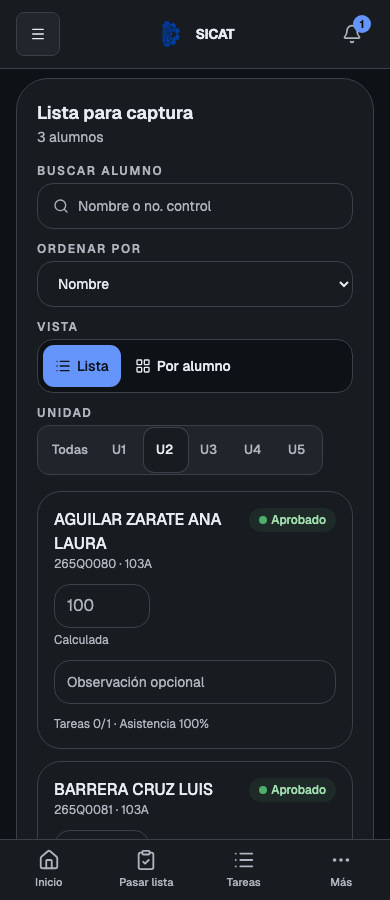
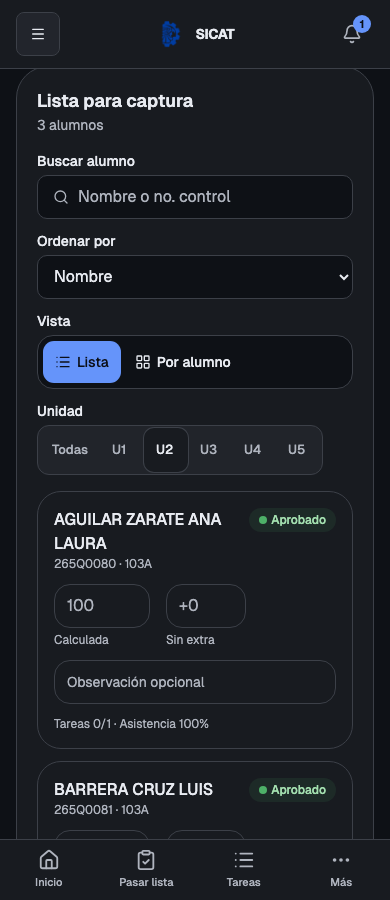
feat(calificaciones): puntos extra por alumno sin tocar los criterios
El docente captura puntos extra junto a la calificación de cada unidad.
La final es la base (manual o calculada) más los puntos, topada en 100;
la calculada, la manual y los criterios no cambian. El alumno ve
"Incluye +N extra" y el cierre de curso usa la final con los puntos.

Migración 20261020120000_calificacion_puntos_extra.

diff --git a/frontend/src/pages/Calificaciones.jsx b/frontend/src/pages/Calificaciones.jsx
@@ -62,12 +62,13 @@ function getRowKey(row) {
 function getServerDraft(row) {
   return {
     calificacionManual: row.calificacionManual == null ? '' : String(row.calificacionManual),
+    puntosExtra: row.puntosExtra == null ? '' : String(row.puntosExtra),
     observacion: row.observacionManual ?? '',
   }
 }
 
 function isSameDraft(a, b) {
-  return a.calificacionManual === b.calificacionManual && a.observacion === b.observacion
+  return a.calificacionManual === b.calificacionManual && a.puntosExtra === b.puntosExtra && a.observacion === b.observacion
 }
 
 // Mismo rango que valida el servidor; vacío significa "usar la calculada".
@@ -77,6 +78,19 @@ function validarCalificacion(value) {
   const number = Number(text)
   if (!Number.isFinite(number) || number < 1 || number > 100) return 'Debe estar entre 1 y 100'
   return null
+}
+
+// Puntos que se suman a la calificación sin tocar los criterios; vacío es 0.
+function validarPuntosExtra(value) {
+  const text = String(value ?? '').trim()
+  if (text === '') return null
+  const number = Number(text)
+  if (!Number.isFinite(number) || number < 0 || number > 100) return 'Debe estar entre 0 y 100'
+  return null
+}
+
+function borradorInvalido(draft) {
+  return Boolean(validarCalificacion(draft.calificacionManual) || validarPuntosExtra(draft.puntosExtra))
 }
 
 function plural(count, singular, pluralForm) {
@@ -169,8 +183,10 @@ function etiquetaCelda(row, conUnidad) {
 // vacía, la calculada.
 function valorEfectivo(row, draft) {
   const manual = draft.calificacionManual.trim()
-  if (manual === '') return row.calificacionCalculada ?? null
-  return validarCalificacion(manual) ? null : Number(manual)
+  const base = manual === '' ? row.calificacionCalculada ?? null : validarCalificacion(manual) ? null : Number(manual)
+  const extra = draft.puntosExtra.trim()
+  if (base == null || extra === '' || validarPuntosExtra(extra)) return base
+  return Math.min(100, Math.round((base + Number(extra)) * 10) / 10)
 }
 
 function promedio(values) {
@@ -266,6 +282,49 @@ function CalificacionInput({ row, drafts, conUnidad, columna, compact = false, o
   )
 }
 
+function PuntosExtraInput({ row, drafts, conUnidad, onDraftChange }) {
+  const rowKey = getRowKey(row)
+  const draft = drafts[rowKey] ?? getServerDraft(row)
+  const invalid = validarPuntosExtra(draft.puntosExtra)
+  const conPuntos = draft.puntosExtra.trim() !== '' && Number(draft.puntosExtra) > 0
+  const final = valorEfectivo(row, draft)
+  const hintId = `extra-${rowKey}`
+
+  return (
+    <div>
+      <input
+        data-captura="calificacion"
+        data-columna="extra"
+        aria-label={`Puntos extra de ${etiquetaCelda(row, conUnidad)}`}
+        aria-describedby={hintId}
+        aria-invalid={Boolean(invalid)}
+        type="number"
+        inputMode="decimal"
+        min="0"
+        max="100"
+        step="0.5"
+        value={draft.puntosExtra}
+        placeholder="+0"
+        disabled={!row.unidad?.id}
+        onChange={(event) => onDraftChange(row, 'puntosExtra', event.target.value)}
+        onKeyDown={moverFoco}
+        className="w-20 rounded-2xl border border-border bg-card px-3 py-2 text-base font-semibold text-foreground outline-none transition placeholder:font-normal placeholder:text-muted-foreground focus-visible:border-ring focus-visible:ring-2 focus-visible:ring-ring/40 aria-invalid:border-destructive disabled:cursor-not-allowed disabled:bg-background"
+      />
+      <div id={hintId} className="mt-1 text-xs">
+        {invalid ? (
+          <span className="font-medium text-destructive-foreground">{invalid}</span>
+        ) : conPuntos ? (
+          <span className="text-muted-foreground">
+            Final <span className="font-semibold text-foreground">{final ?? '-'}</span>
+          </span>
+        ) : (
+          <span className="text-muted-foreground">Sin extra</span>
+        )}
+      </div>
+    </div>
+  )
+}
+
 function ObservacionInput({ row, drafts, conUnidad, onDraftChange }) {
   const draft = drafts[getRowKey(row)] ?? getServerDraft(row)
   return (
@@ -311,6 +370,7 @@ function CapturaTable({ rows, drafts, showGrupo, showUnidad, onDraftChange }) {
               {showGrupo && <th className="px-4 py-3">Grupo</th>}
               {showUnidad && <th className="px-4 py-3">Unidad</th>}
               <th className="px-4 py-3">Calificación</th>
+              <th className="px-4 py-3" title="Se suman a la calificación sin cambiar los criterios">Extra</th>
               <th className="px-4 py-3">Observación</th>
               <th className="px-4 py-3">Estado</th>
               <th className="px-4 py-3">Tareas</th>
@@ -333,6 +393,9 @@ function CapturaTable({ rows, drafts, showGrupo, showUnidad, onDraftChange }) {
                   {showUnidad && <td className="whitespace-nowrap px-4 py-3 align-top">{row.unidad?.nombre || '-'}</td>}
                   <td className="min-w-[11rem] px-4 py-3 align-top">
                     <CalificacionInput row={row} drafts={drafts} conUnidad={showUnidad} columna="lista" onDraftChange={onDraftChange} />
+                  </td>
+                  <td className="min-w-[7rem] px-4 py-3 align-top">
+                    <PuntosExtraInput row={row} drafts={drafts} conUnidad={showUnidad} onDraftChange={onDraftChange} />
                   </td>
                   <td className="min-w-[12rem] px-4 py-3 align-top">
                     <ObservacionInput row={row} drafts={drafts} conUnidad={showUnidad} onDraftChange={onDraftChange} />
@@ -380,7 +443,10 @@ function CapturaCards({ rows, drafts, showGrupo, showUnidad, onDraftChange }) {
               <StatusBadge row={row} />
             </div>
             <div className="mt-3 flex flex-col gap-3">
-              <CalificacionInput row={row} drafts={drafts} conUnidad={showUnidad} columna="lista" onDraftChange={onDraftChange} />
+              <div className="flex flex-wrap items-start gap-4">
+                <CalificacionInput row={row} drafts={drafts} conUnidad={showUnidad} columna="lista" onDraftChange={onDraftChange} />
+                <PuntosExtraInput row={row} drafts={drafts} conUnidad={showUnidad} onDraftChange={onDraftChange} />
+              </div>
               <ObservacionInput row={row} drafts={drafts} conUnidad={showUnidad} onDraftChange={onDraftChange} />
             </div>
             <p className="mt-3 text-xs text-muted-foreground">{resumenAvance(row)}</p>
@@ -621,7 +687,7 @@ function DocenteCalificaciones() {
     [rows, drafts],
   )
   const dirtyCount = dirtyRows.length
-  const invalidCount = dirtyRows.filter((row) => validarCalificacion(drafts[getRowKey(row)].calificacionManual)).length
+  const invalidCount = dirtyRows.filter((row) => borradorInvalido(drafts[getRowKey(row)])).length
   const unsavedMessage = (accion) => ({
     title: 'Cambios sin guardar',
     description: `Tienes ${plural(dirtyCount, 'calificación', 'calificaciones')} sin guardar. Si ${accion}, se perderán.`,
@@ -673,10 +739,12 @@ function DocenteCalificaciones() {
         calificaciones: dirtyRows.map((row) => {
           const draft = snapshot[getRowKey(row)]
           const manual = draft.calificacionManual.trim()
+          const extra = draft.puntosExtra.trim()
           return {
             alumnoId: row.alumno.id,
             unidadId: row.unidad.id,
             calificacionManual: manual === '' ? null : Number(manual),
+            puntosExtra: extra === '' ? null : Number(extra),
             observacion: draft.observacion,
           }
         }),
@@ -1036,6 +1104,7 @@ function AlumnoCalificaciones() {
                   <StatusBadge row={row} />
                 </span>
                 <span className="text-sm text-muted-foreground">
+                  {row.puntosExtra > 0 && <span className="font-medium text-foreground">Incluye +{row.puntosExtra} extra · </span>}
                   {row.tareas?.calificadas ?? 0} de {row.tareas?.total ?? 0} tareas calificadas
                   {' · '}{row.asistencia?.registradas ? `${row.asistencia.porcentaje} % de asistencia` : 'sin asistencia registrada'}
                   {(row.observacionManual || row.observaciones?.[0]) && (

diff --git a/backend/src/calificaciones/calificaciones.service.ts b/backend/src/calificaciones/calificaciones.service.ts
@@ -463,6 +463,7 @@ export class CalificacionesService {
             alumnoId: dto.alumnoId,
             unidadId: dto.unidadId,
             calificacionManual: dto.calificacionManual,
+            puntosExtra: dto.puntosExtra,
             observacion: dto.observacion,
           },
         ],
@@ -522,11 +523,27 @@ export class CalificacionesService {
           'La calificacion debe estar entre 1 y 100',
         );
       }
+      // `undefined` deja los puntos guardados; `null` o 0 los quita.
+      const puntosExtra =
+        item.puntosExtra === undefined
+          ? undefined
+          : item.puntosExtra == null || Number(item.puntosExtra) === 0
+            ? null
+            : Number(item.puntosExtra);
+      if (
+        puntosExtra != null &&
+        (!Number.isFinite(puntosExtra) || puntosExtra < 0 || puntosExtra > 100)
+      ) {
+        throw new BadRequestException(
+          'Los puntos extra deben estar entre 0 y 100',
+        );
+      }
       return {
         alumnoId: item.alumnoId,
         unidadId: item.unidadId,
         grupoId: dto.grupoId ?? alumno.grupoId ?? null,
         calificacionManual,
+        puntosExtra,
         observacion: item.observacion?.trim() || null,
       };
     });
@@ -741,6 +758,7 @@ export class CalificacionesService {
               alumnoId: true,
               unidadId: true,
               calificacionManual: true,
+              puntosExtra: true,
               observacion: true,
             },
           })
@@ -874,7 +892,21 @@ export class CalificacionesService {
           typeof calificacionGuardada?.calificacionManual === 'number'
             ? calificacionGuardada.calificacionManual
             : null;
-        const calificacionFinal = calificacionManual ?? calificacionCalculada;
+        const puntosExtra =
+          typeof calificacionGuardada?.puntosExtra === 'number' &&
+          calificacionGuardada.puntosExtra > 0
+            ? calificacionGuardada.puntosExtra
+            : null;
+        // Los puntos extra se suman al final, fuera de los criterios: la
+        // calculada y la manual no cambian. Sin base no hay a qué sumarlos.
+        const calificacionBase = calificacionManual ?? calificacionCalculada;
+        const calificacionFinal =
+          calificacionBase == null || puntosExtra == null
+            ? calificacionBase
+            : Math.min(
+                100,
+                Math.round((calificacionBase + puntosExtra) * 10) / 10,
+              );
         const desempeno = evaluarDesempeno({
           calificacion: calificacionFinal,
           unidadFinalizada: unidad.status === EstadoUnidad.FINALIZADA,
@@ -916,6 +948,8 @@ export class CalificacionesService {
           calificacionFinal,
           calificacionManual,
           calificacionCalculada,
+          calificacionBase,
+          puntosExtra,
           fuenteCalificacion:
             calificacionManual != null
               ? 'MANUAL'

diff --git a/frontend/tests/e2e/calificaciones-unidad.spec.js b/frontend/tests/e2e/calificaciones-unidad.spec.js
@@ -55,3 +55,32 @@ for (const [theme, width] of [['dark', 390], ['light', 1280]]) {
     expect(errors).toEqual([])
   })
 }
+
+test('calificaciones: puntos extra se suman sin tocar la calculada', async ({ page }) => {
+  await page.setViewportSize({ width: 1280, height: 900 })
+  await mockApi(page, 'DOCENTE')
+  await page.route('**/api/materias/mis-materias', (route) => route.fulfill({ json: materias }))
+  await page.route('**/api/calificaciones/docente**', (route) => route.fulfill({ json: reporte }))
+  await page.route('**/api/calificaciones/criterios**', (route) => route.fulfill({ json: { materiaId: 1, grupoId: null, base: null, unidades: [], catalogo: [], gruposDelDocente: [] } }))
+  let enviado = null
+  await page.route('**/api/calificaciones/manual/lote**', (route) => {
+    enviado = route.request().postDataJSON()
+    route.fulfill({ json: reporte })
+  })
+  await page.goto('/calificaciones?materia=1&en-unidad=2')
+
+  const extra = page.getByLabel('Puntos extra de AGUILAR ZARATE ANA LAURA')
+  await extra.fill('5')
+  // 100 calculada + 5 se topa en 100; la calculada queda igual.
+  await expect(page.getByText('Final 100')).toBeVisible()
+  await expect(page.getByLabel('Calificación de AGUILAR ZARATE ANA LAURA')).toHaveValue('')
+  await extra.fill('150')
+  await expect(page.getByText('Debe estar entre 0 y 100')).toBeVisible()
+  await extra.fill('2.5')
+  await page.locator('table').first().screenshot({ path: 'audit/docente/calificaciones-puntos-extra-1280.png' })
+  await page.getByRole('button', { name: 'Guardar todo' }).click()
+  await expect.poll(() => enviado).not.toBeNull()
+  expect(enviado.calificaciones).toEqual([
+    expect.objectContaining({ alumnoId: 1, unidadId: 2, calificacionManual: null, puntosExtra: 2.5 }),
+  ])
+})

diff --git a/backend/src/calificaciones/calificaciones.service.spec.ts b/backend/src/calificaciones/calificaciones.service.spec.ts
@@ -490,6 +490,43 @@ describe('CalificacionesService: política docente–materia–grupo', () => {
         expect.objectContaining({ aprobados: 1, enRiesgo: 0, sinCalificar: 2 }),
       );
     });
+
+    it('se suman a la manual sin cambiarla y la final se topa en 100', async () => {
+      tareaFindMany.mockResolvedValue([]);
+      claseSesionFindMany.mockResolvedValue([]);
+      calificacionFindMany.mockResolvedValue([
+        {
+          alumnoId: 500,
+          unidadId: 5,
+          calificacionManual: 65,
+          puntosExtra: 10,
+          observacion: null,
+        },
+        {
+          alumnoId: 501,
+          unidadId: 5,
+          calificacionManual: 95,
+          puntosExtra: 10,
+          observacion: null,
+        },
+      ]);
+      const reporte = await service.obtenerReporteDocente(admin, {
+        materiaId: 12,
+        grupoId: 3,
+        unidadId: 5,
+      });
+      const fila = (id: number) =>
+        reporte.rows.find((row) => row.alumno.id === id);
+      expect(fila(500)).toEqual(
+        expect.objectContaining({
+          calificacionManual: 65,
+          calificacionBase: 65,
+          puntosExtra: 10,
+          calificacionFinal: 75,
+        }),
+      );
+      expect(fila(501)?.calificacionFinal).toBe(100);
+    });
   });
 
   describe('captura por lote', () => {

diff --git a/backend/src/calificaciones/dto/guardar-calificacion-manual.dto.ts b/backend/src/calificaciones/dto/guardar-calificacion-manual.dto.ts
@@ -45,6 +45,15 @@ export class GuardarCalificacionManualDto {
   @Max(100)
   calificacionManual?: number | null;
 
+  @ValidateIf(
+    (_, value) => value !== null && value !== undefined && value !== '',
+  )
+  @ToNumber()
+  @IsNumber()
+  @Min(0)
+  @Max(100)
+  puntosExtra?: number | null;
+
   @V.MaxLength(5000)
   @V.ValidateIf((_object, value: unknown) => value !== undefined)
   @SanitizeText()

diff --git a/backend/src/calificaciones/dto/guardar-calificaciones-lote.dto.ts b/backend/src/calificaciones/dto/guardar-calificaciones-lote.dto.ts
@@ -34,6 +34,15 @@ export class CalificacionLoteItemDto {
   @Max(100)
   calificacionManual?: number | null;
 
+  @ValidateIf(
+    (_, value) => value !== null && value !== undefined && value !== '',
+  )
+  @ToNumber()
+  @IsNumber()
+  @Min(0)
+  @Max(100)
+  puntosExtra?: number | null;
+
   @V.MaxLength(5000)
   @V.ValidateIf((_object, value: unknown) => value !== undefined)
   @SanitizeText()
